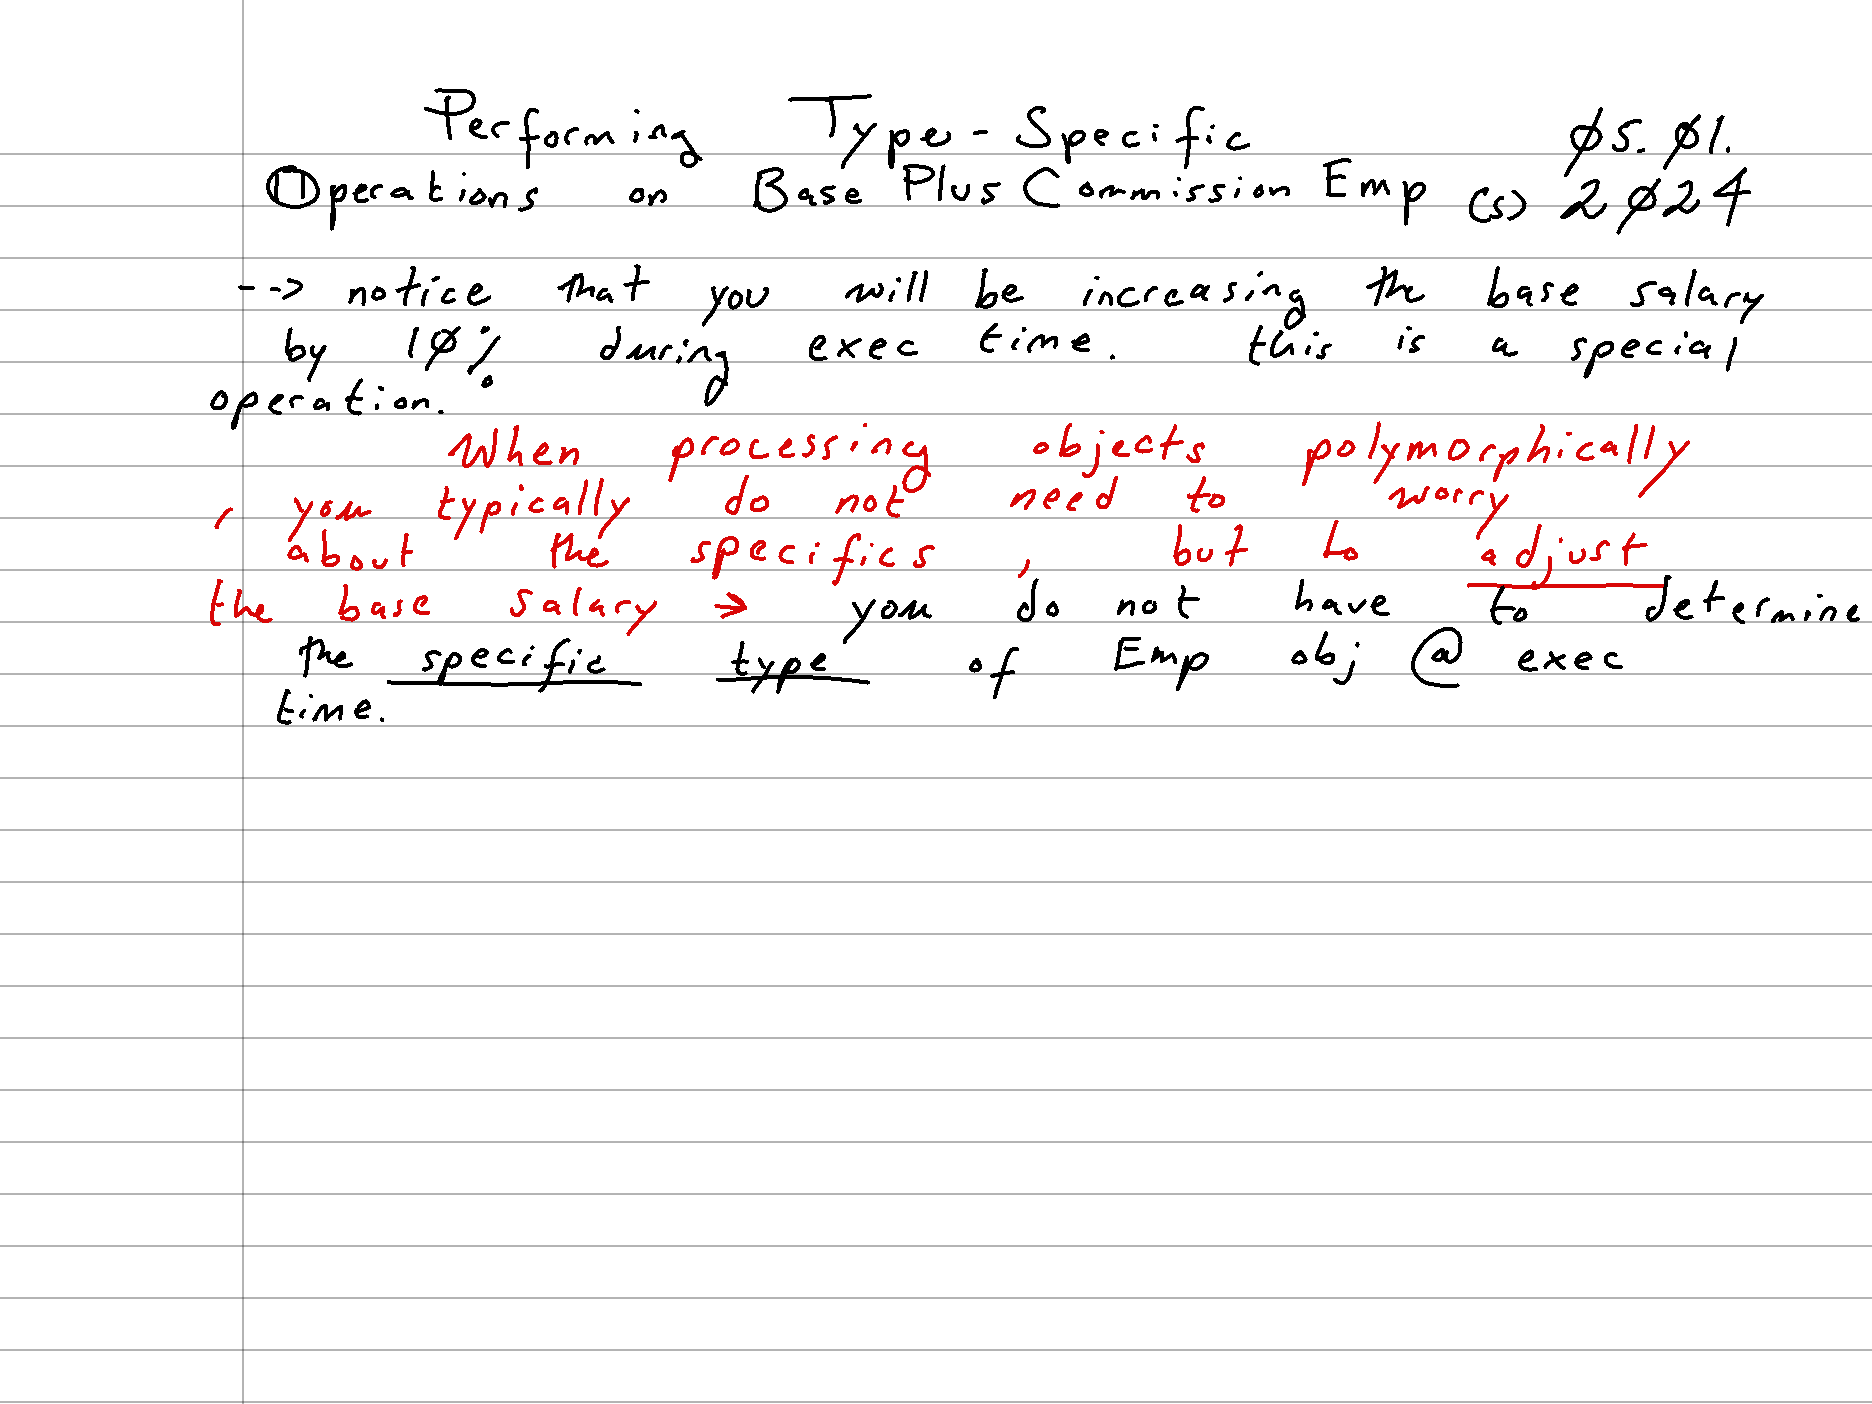
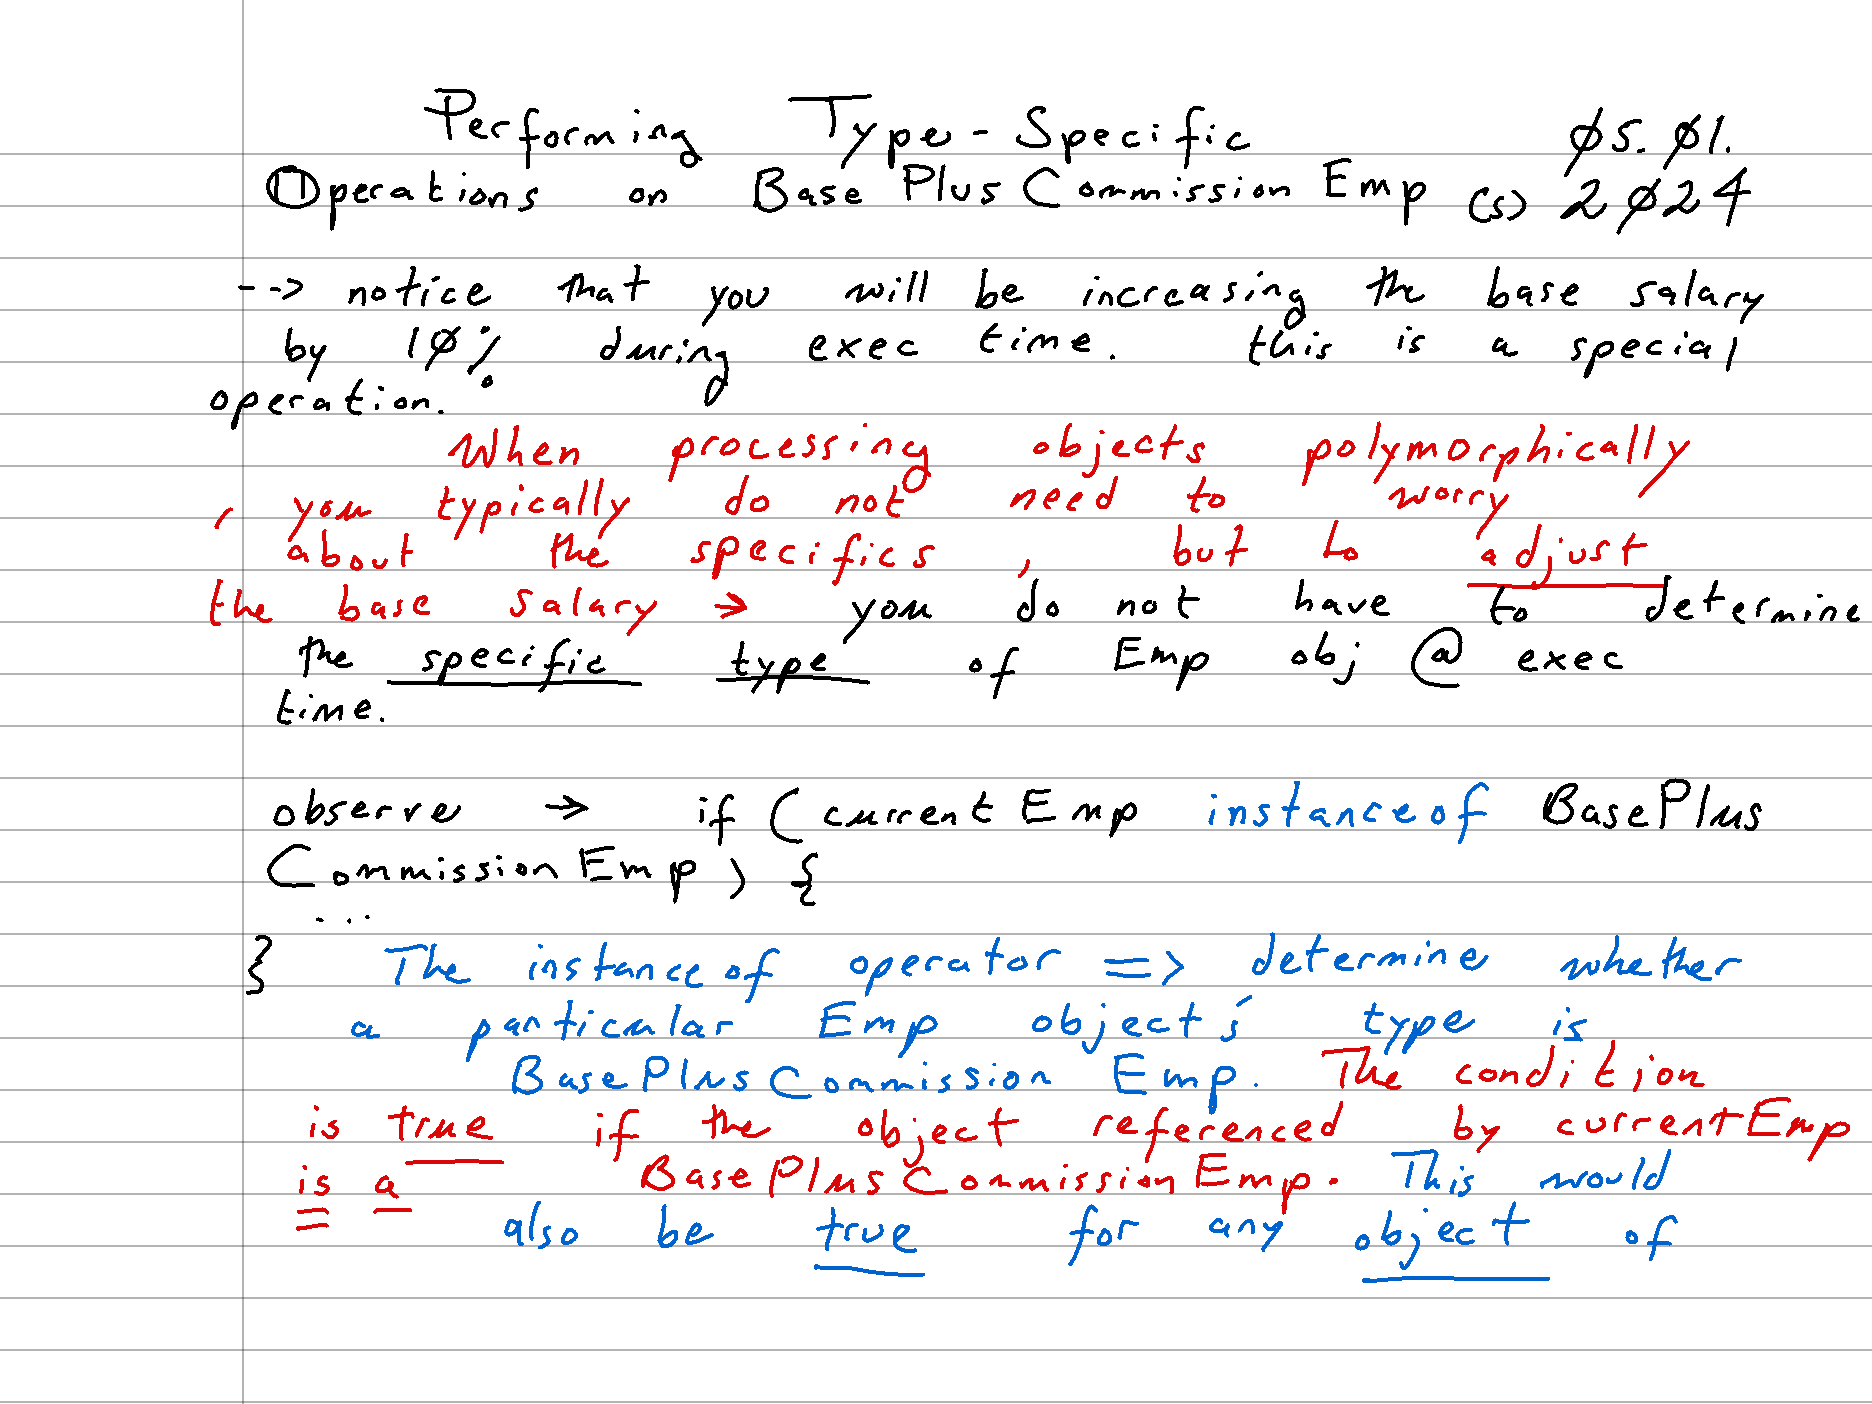
added notes -> downcasting from superclass to baseclass and polymorphism

diff --git a/deitelJava11/README.md b/deitelJava11/README.md
@@ -365,3 +365,23 @@ public class CommissionEmp extends Emp {
 <a>
   <img src="https://github.com/stan-alam/java/blob/develop/deitelJava11/early_objects/images/10/deitelJava11th10%20-%20page%2058.png" width="80%" height="80%">
 </a>
+
+<a>
+  <img src="https://github.com/stan-alam/java/blob/develop/deitelJava11/early_objects/images/10/deitelJava11th10%20-%20page%2059.png" width="80%" height="80%">
+</a>
+
+<a>
+  <img src="https://github.com/stan-alam/java/blob/develop/deitelJava11/early_objects/images/10/deitelJava11th10%20-%20page%2060.png" width="80%" height="80%">
+</a>
+
+<a>
+  <img src="https://github.com/stan-alam/java/blob/develop/deitelJava11/early_objects/images/10/deitelJava11th10%20-%20page%2061.png" width="80%" height="80%">
+</a>
+
+<a>
+  <img src="https://github.com/stan-alam/java/blob/develop/deitelJava11/early_objects/images/10/deitelJava11th10%20-%20page%2062.png" width="80%" height="80%">
+</a>
+
+<a>
+  <img src="https://github.com/stan-alam/java/blob/develop/deitelJava11/early_objects/images/10/deitelJava11th10%20-%20page%2063.png" width="80%" height="80%">
+</a>
